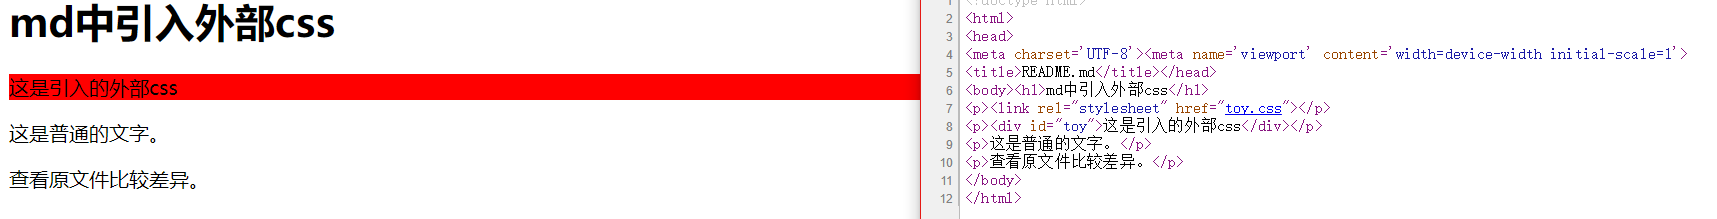
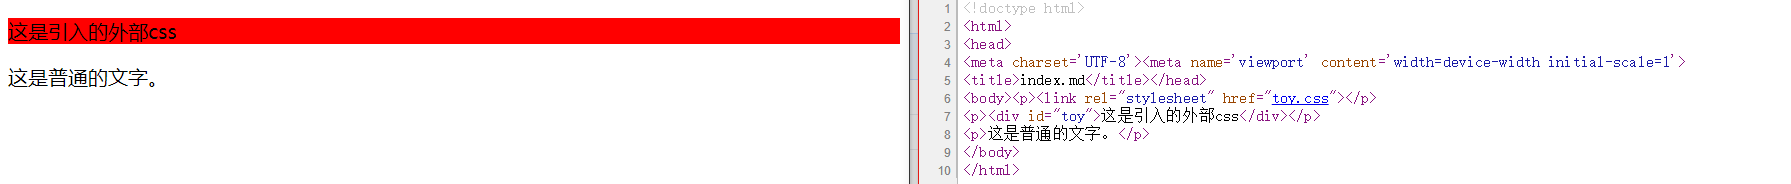
demo for css in md

Changed region(s): [[0.0, 0.0, 0.9878, 1.0], [0.0, 0.7609, 0.1235, 0.8696], [0.0, 0.5707, 0.0926, 0.6793]]

diff --git a/demo/css_in_md/index.html b/demo/css_in_md/index.html
@@ -2,11 +2,9 @@
 <html>
 <head>
 <meta charset='UTF-8'><meta name='viewport' content='width=device-width initial-scale=1'>
-<title>README.md</title></head>
-<body><h1>md中引入外部css</h1>
-<p><link rel="stylesheet" href="toy.css"></p>
+<title>index.md</title></head>
+<body><p><link rel="stylesheet" href="toy.css"></p>
 <p><div id="toy">这是引入的外部css</div></p>
 <p>这是普通的文字。</p>
-<p>查看原文件比较差异。</p>
 </body>
 </html>

diff --git a/demo/css_in_md/README.md b/demo/css_in_md/README.md
@@ -9,15 +9,8 @@ md文件可以直接当成html文件处理，直接用下面的代码引入`toy.
 ```
 
 ## 效果
-
-<link rel="stylesheet" href="toy.css">
-
-<div id="toy">这是引入的外部css</div>
-
-这是普通的文字。
-
-生成html效果如下：
+在`index.md`文件中引入`toy.css`，生成的html效果如下：
 
 ![](res.png)
 
-查看README.html及README.md源文件比较差异。
+查看index.html及index.md源文件比较差异。

diff --git a/demo/css_in_md/index.md b/demo/css_in_md/index.md
@@ -1,0 +1,5 @@
+<link rel="stylesheet" href="toy.css">
+
+<div id="toy">这是引入的外部css</div>
+
+这是普通的文字。
